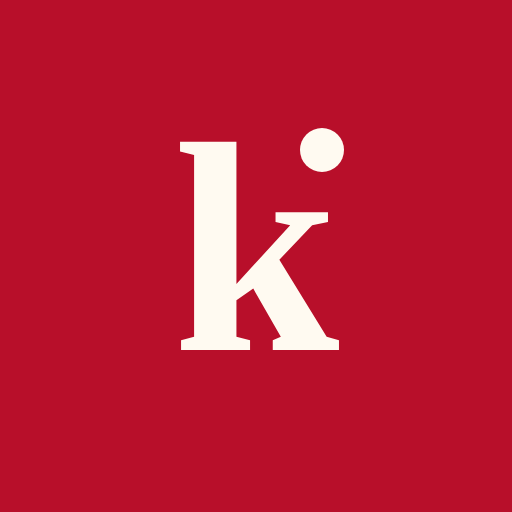
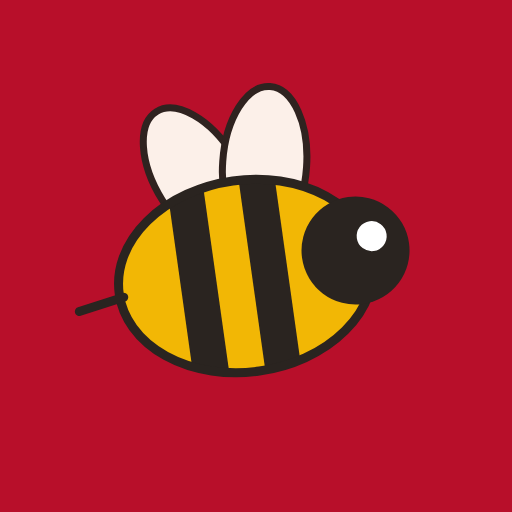
Rename the app from Kelma to Naħla
Naħla is Maltese for 'bee', after the Busy bee game. The header, page
title, install name, Settings text and export file name change, and
the icon is now a bee.

The saved-progress key and the offline cache prefix keep the old name
on purpose, so existing progress and old caches are still found.

Claude-Session: https://claude.ai/code/session_01AaFCEi8EDqwBvJvWv47tUi

Changed region(s): [[0.125, 0.1562, 0.8125, 0.75]]

diff --git a/src/components/Settings.tsx b/src/components/Settings.tsx
@@ -32,7 +32,7 @@ export function Settings({ data, update }: { data: AppData; update: Update }) {
     const url = URL.createObjectURL(blob);
     const a = document.createElement('a');
     a.href = url;
-    a.download = `kelma-progress-${toISODate(new Date())}.json`;
+    a.download = `nahla-progress-${toISODate(new Date())}.json`;
     a.click();
     URL.revokeObjectURL(url);
     setMessage('Progress file downloaded.');
@@ -45,7 +45,7 @@ export function Settings({ data, update }: { data: AppData; update: Update }) {
       update(() => parsed);
       setMessage(`Imported progress for ${Object.keys(parsed.cards).length} cards.`);
     } catch {
-      setMessage('That file is not a Kelma progress export.');
+      setMessage('That file is not a Naħla progress export.');
     }
   };
 
@@ -131,11 +131,11 @@ export function Settings({ data, update }: { data: AppData; update: Update }) {
         <h2 className="eyebrow">App</h2>
         <div className="panel">
           {installed ? (
-            <p className="muted">Kelma is installed on this device and works without a connection.</p>
+            <p className="muted">Naħla is installed on this device and works without a connection.</p>
           ) : (
             <>
               <p className="muted">
-                Install Kelma to open it from your home screen and study without a connection.
+                Install Naħla to open it from your home screen and study without a connection.
               </p>
               {install ? (
                 <div className="row">

diff --git a/index.html b/index.html
@@ -8,11 +8,11 @@
     <meta name="description" content="Flashcards for memorising Maltese words with Polish and English translations." />
     <meta name="mobile-web-app-capable" content="yes" />
     <meta name="apple-mobile-web-app-capable" content="yes" />
-    <meta name="apple-mobile-web-app-title" content="Kelma" />
+    <meta name="apple-mobile-web-app-title" content="Naħla" />
     <link rel="manifest" href="./manifest.webmanifest" />
     <link rel="apple-touch-icon" href="./apple-touch-icon.png" />
     <link rel="icon" type="image/png" sizes="192x192" href="./icon-192.png" />
-    <title>Kelma – Maltese flashcards</title>
+    <title>Naħla – Maltese flashcards</title>
   </head>
   <body>
     <div id="root"></div>

diff --git a/vite.config.ts b/vite.config.ts
@@ -7,7 +7,7 @@ import react from '@vitejs/plugin-react';
 /** Emits sw.js with the list of built files, so the app can be saved for offline use. */
 function serviceWorker(): Plugin {
   return {
-    name: 'kelma-service-worker',
+    name: 'nahla-service-worker',
     apply: 'build',
     generateBundle(_options, bundle) {
       const built = Object.keys(bundle).filter((f) => f !== 'index.html' && !f.endsWith('.map'));

diff --git a/src/sw.template.js b/src/sw.template.js
@@ -1,5 +1,6 @@
 // Service worker template. The build fills in the version and the file list
 // (see vite.config.ts), then emits this as sw.js next to index.html.
+// The cache prefix keeps the app's first name, Kelma, so that old caches are still found and removed.
 const CACHE = 'kelma-__VERSION__';
 const PRECACHE = __PRECACHE__;
 const SHELL = new URL('./', self.location).href;

diff --git a/src/App.tsx b/src/App.tsx
@@ -44,7 +44,7 @@ export function App() {
     <div className="shell">
       <header className="topbar">
         <span className="brand" lang="mt">
-          kelma
+          naħla
         </span>
         <span className="brand-sub">Maltese flashcards</span>
       </header>

diff --git a/src/lib/store.ts b/src/lib/store.ts
@@ -31,6 +31,7 @@ export interface AppData {
   games: { speedBest: number };
 }
 
+// The key keeps the app's first name, Kelma: renaming it would orphan everyone's saved progress.
 const STORAGE_KEY = 'kelma:v1';
 
 export function emptyData(): AppData {

diff --git a/README.md b/README.md
@@ -1,7 +1,7 @@
-# Kelma
+# Naħla
 
 Flashcards for memorising Maltese words through their Polish and English translations.
-*Kelma* is Maltese for "word".
+*Naħla* is Maltese for "bee".
 
 - Two directions, each with its own progress: Maltese → Polish/English and Polish/English → Maltese.
 - Spaced repetition: words you know come back after 1, 3, 7, 14 and then 30 days; words you miss come back the same session.
